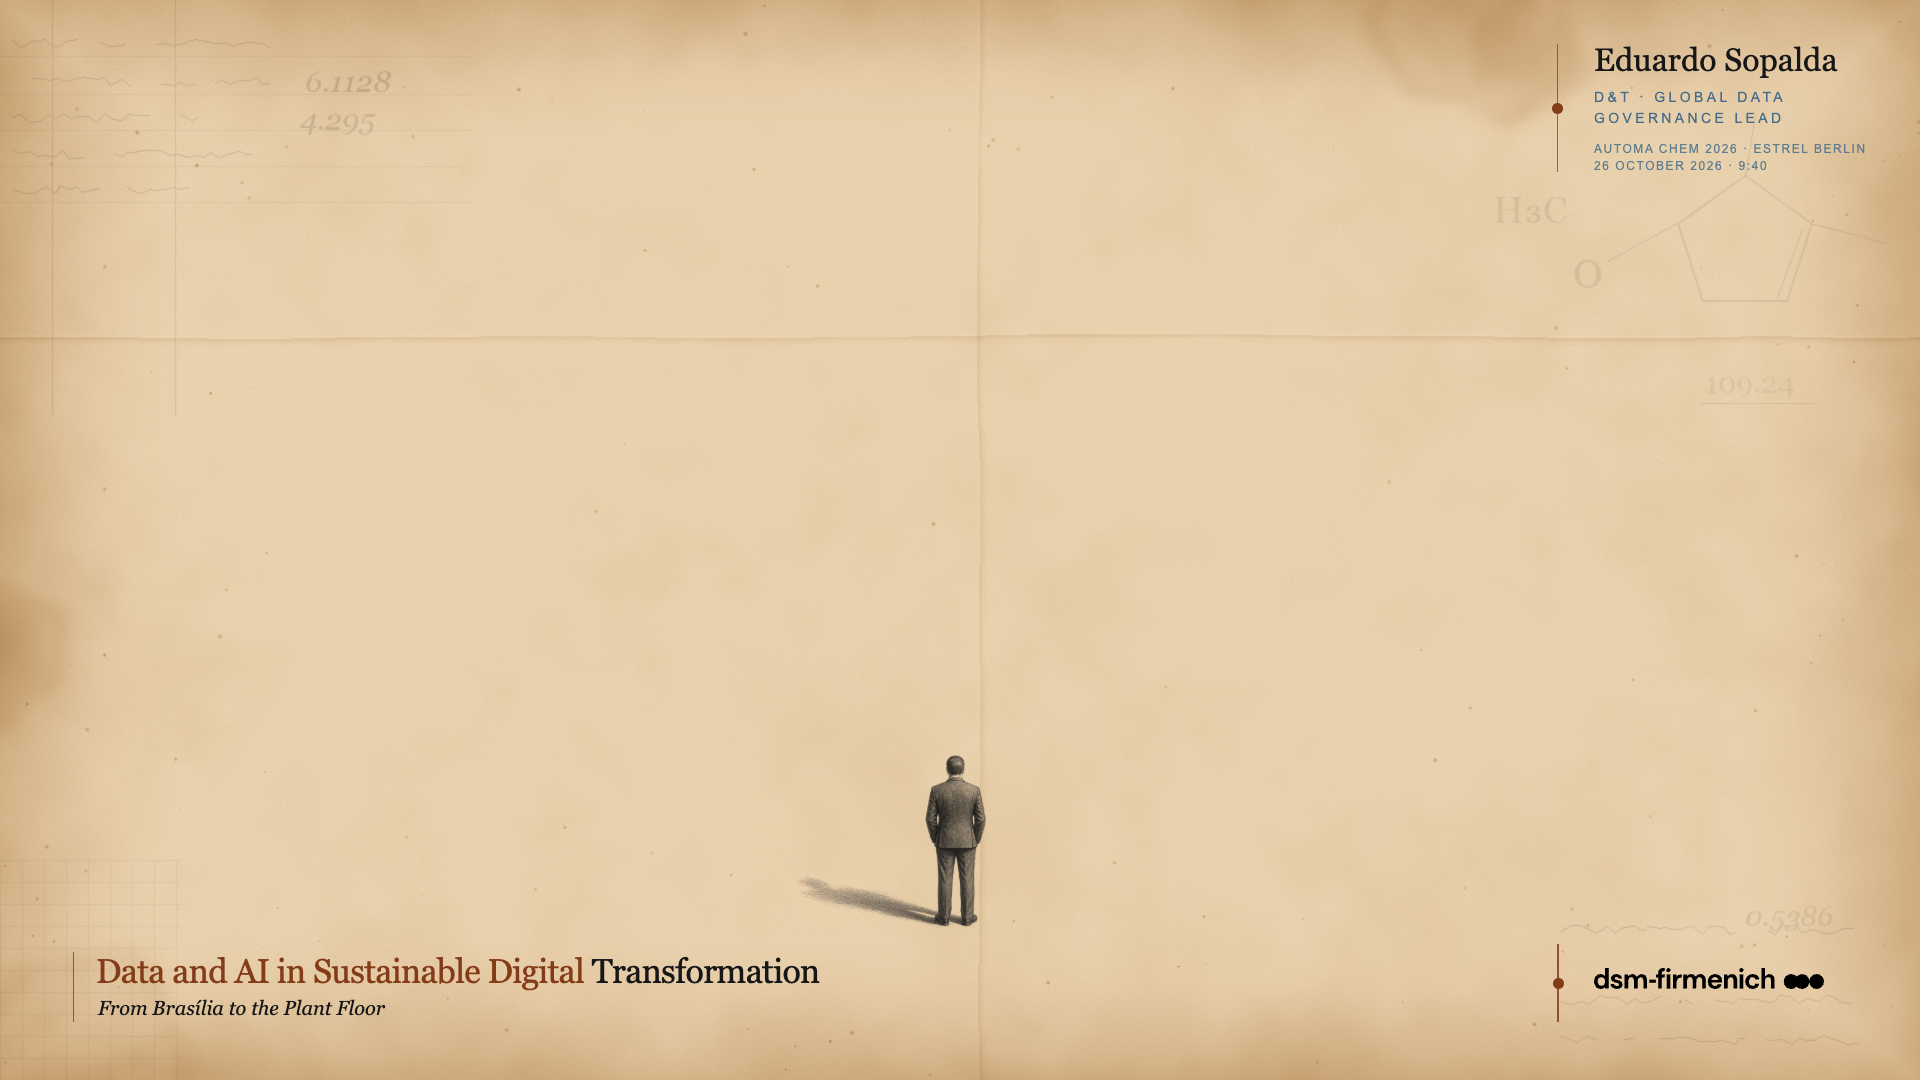
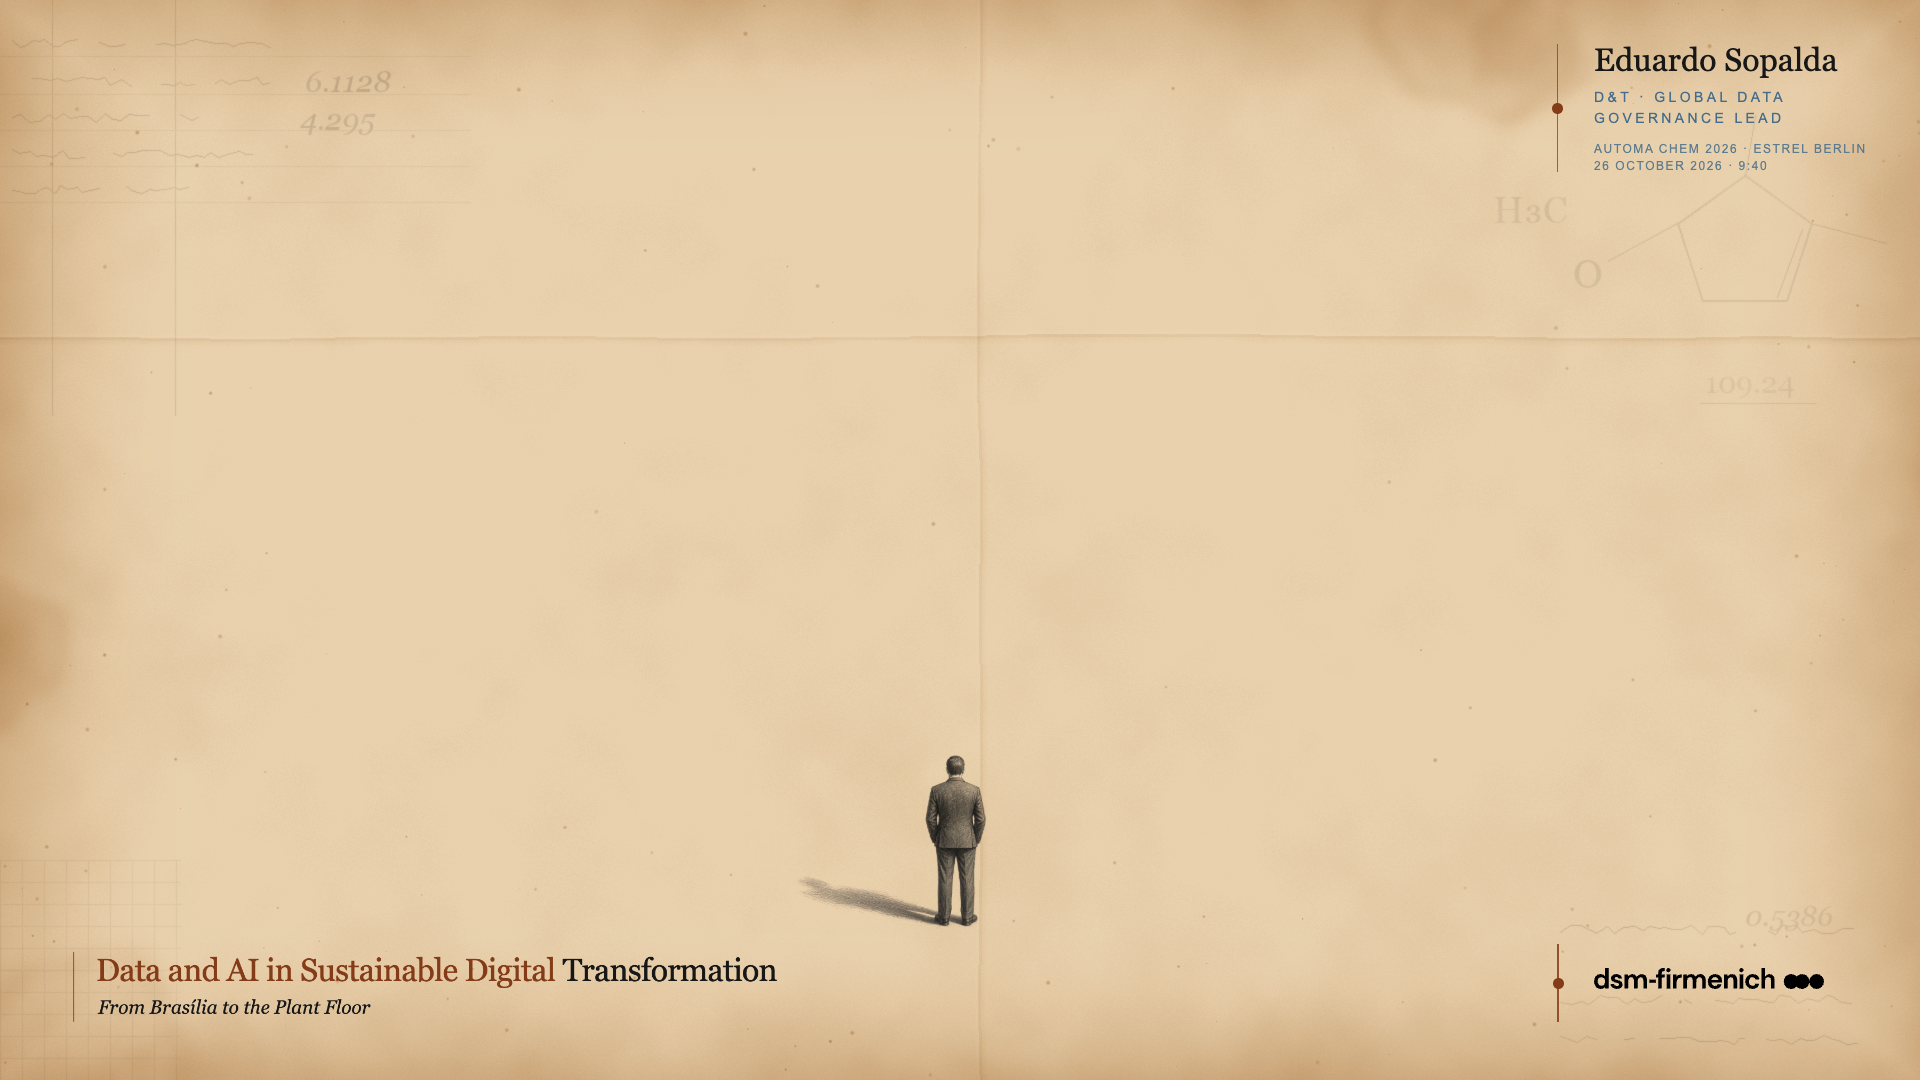
Act 0: the tagline fades first, then the title shrinks and sinks to its place
PEOPLE | PLANET | PROGRESS starts centred on the man and fades out (0.2 to 1.2 s) before anything moves.
From 1.4 s the title (one line and its subtitle, one group) shrinks (1.6 s) and sinks down the left margin
(3.2 s) together; the shrink finishes first, so it passes the man at final size, 18 px clear of his shadow.
Same shape at start and rest: laid out once at 60 px and only transformed (GSAP tweens transform directly;
the shrink eases by ratio), so letters never change shape and seeking, jumping to the end and R render
identically. Start 60 px (ends x 1373, clear of the name block); rest 32 px, top at y 952 below the datum.
make_base_frame.mjs now checks the datum at rest and the path against the man at 60 fps.

Changed region(s): [[0.0625, 0.8861, 0.4375, 0.9472]]

diff --git a/opening/index.html b/opening/index.html
@@ -8,8 +8,10 @@
   Act 0. Edu's title slide, set on a fixed 1920 by 1080 stage so it scales to any screen.
   The man is the measure of the drawing: no title type ever sits above the foot datum (y 936, his soles at 928 + 8).
   Layout (Edu, 30 Sep): title bottom left, name top right with the role under it, dsm-firmenich bottom right.
-  Nothing travels: every piece of type is already in its final place. On the click (Space, Right arrow, Page Down,
-  Enter) opening.mp4 starts under the man and PEOPLE | PLANET | PROGRESS fades out; opacity only, no moving letters.
+  On the click (Space, Right arrow, Page Down, Enter) opening.mp4 starts under the man; PEOPLE | PLANET | PROGRESS,
+  centred on him, fades out first; then the title (one line and its subtitle, one group) shrinks and sinks down the
+  left margin to its place. The group is laid out once at its starting size and only transformed, so its letters never
+  change shape; the shrink finishes before it reaches the man's height, so it never crosses him.
   Runs offline: open this file with a double click. R resets. F is fullscreen.
 -->
 <script src="gsap.min.js"></script>
@@ -54,10 +56,12 @@
   .t{position:absolute;display:block;white-space:nowrap}
   .rust{color:var(--rust)} .dark{color:var(--ink)}
 
-  /* Title, bottom left, entirely below the foot datum (y 936) */
-  .rule-left{position:absolute;left:73px;top:952px;height:70px;border-left:1px solid rgba(132,59,24,.78)}
-  .title{left:96px;top:954px;font:34px/1 Georgia,"Times New Roman",serif;letter-spacing:-.02em}
-  .d-sub{left:98px;top:998px;font:italic 20px/1 Georgia,"Times New Roman",serif;color:var(--ink)}
+  /* Title: one group, bottom left at rest (entirely below the foot datum, y 936). It is laid out at its starting
+     size (x 1.875) and scaled down to rest, so every frame is a downscale of the same sharp raster. */
+  .tgroup{position:absolute;left:96px;top:954px;transform-origin:0 0;will-change:transform}
+  .tgroup .rule-left{position:absolute;left:-43px;top:-4px;height:131px;border-left:2px solid rgba(132,59,24,.78)}
+  .title{left:0;top:0;font:60px/1 Georgia,"Times New Roman",serif;letter-spacing:-.02em}
+  .d-sub{left:4px;top:82px;font:italic 35.6px/1 Georgia,"Times New Roman",serif;color:var(--ink)}
 
   /* Name top right, role and occasion under it */
   .rule-right{position:absolute;left:1557px;top:44px;height:128px;border-left:1px solid rgba(132,59,24,.75)}
@@ -73,8 +77,8 @@
   .rule-right::after,.rule-logo::after{content:"";position:absolute;left:-6px;top:50%;width:11px;height:11px;margin-top:-5px;border-radius:50%;background:var(--rust)}
   .rule-logo{position:absolute;left:1557px;top:944px;height:78px;border-left:2px solid rgba(132,59,24,.85)}
 
-  /* The brand line: under the man before the click, then it fades out */
-  .people{left:1188px;top:962px;transform:translateX(-50%);color:var(--rust);font:700 20px Arial,Helvetica,sans-serif;letter-spacing:.30em}
+  /* The brand line: centred on the man before the click; it fades out before the title moves */
+  .people{left:905px;top:958px;transform:translateX(-50%);color:var(--rust);font:700 24.5px Arial,Helvetica,sans-serif;letter-spacing:.30em}
 </style>
 </head>
 <body>
@@ -93,9 +97,11 @@
   <img class="man" id="man" src="man.png" alt="">
 
   <div class="type" id="type">
-    <div class="rule-left"></div>
-    <span class="t title"><span class="rust">Data and AI in Sustainable Digital</span> <span class="dark">Transformation</span></span>
-    <span class="t d-sub">From Brasília to the Plant Floor</span>
+    <div class="tgroup" id="tgroup">
+      <div class="rule-left"></div>
+      <span class="t title"><span class="rust">Data and AI in Sustainable Digital</span> <span class="dark">Transformation</span></span>
+      <span class="t d-sub">From Brasília to the Plant Floor</span>
+    </div>
 
     <div class="rule-right"></div>
     <span class="t name">Eduardo Sopalda</span>
@@ -112,7 +118,7 @@
 </div>
 
 <script>
-  const stage = document.getElementById("stage"), people = document.getElementById("people");
+  const stage = document.getElementById("stage"), people = document.getElementById("people"), tgroup = document.getElementById("tgroup");
   const film = document.getElementById("film"), paper = document.getElementById("paper"), man = document.getElementById("man");
 
   const fit = () => {
@@ -122,8 +128,15 @@
   addEventListener("resize", fit); fit();
 
 
-  // The click: the film starts under the man, the paper gives way to it, and the brand line fades out.
-  // One timeline, opacity only: no type moves, so nothing can wobble. Reduced motion: the brand line goes at once.
+  // The title's move, solved so it never crosses the man (tools: path checked frame by frame against his box):
+  // the brand line fades out first (0.2 to 1.2 s); then, from 1.4 s, the title shrinks (1.6 s) and sinks (3.2 s) together;
+  // the shrink finishes first, so it is already at its final size when it passes the man's height, 19 px left of his shadow.
+  // Scale is interpolated by ratio (log), so the shrink reads even. One ease, power3.inOut: no bounce, no overshoot.
+  const S0 = 60 / 32, DY = 160 - 954;                         // start: one line at the title-slide height; rest: y 954
+  const p3 = gsap.parseEase("power3.inOut");
+  const evenShrink = (p) => (Math.pow(S0, -p3(p)) - 1) / (1 / S0 - 1);   // power3.inOut applied to log(scale)
+  const titleStart = () => gsap.set(tgroup, { transformOrigin: "0 0", y: DY, scale: 1, force3D: true });
+  titleStart();
   let started = false, tl = null;
   function begin() {
     if (started) return;
@@ -135,7 +148,10 @@
       .to(film, { opacity: 1, duration: 0.01 }, 0)
       .to(paper, { opacity: 0, duration: 1.2, ease: "sine.inOut" }, 0.1)
       .to(man, { opacity: 0, duration: 0.6, ease: "sine.inOut" }, 0.7)   // the film's own man takes over, same place
-      .to(people, { opacity: 0, duration: calm ? 0 : 1.2, ease: "sine.inOut" }, calm ? 0 : 0.5);
+      .to(people, { opacity: 0, duration: 1.0, ease: "sine.inOut" }, 0.2)
+      .to(tgroup, { scale: 1 / S0, duration: 1.6, ease: evenShrink }, 1.4)
+      .to(tgroup, { y: 0, duration: 3.2, ease: "power3.inOut" }, 1.4);
+    if (calm) tl.progress(1);
     window.__anims = [tl];
   }
   // Second click: the next clip. Its first frame is the opening film's last frame, so it only starts from there.
@@ -167,6 +183,7 @@
     (window.__anims2 || []).forEach((a) => a.kill());
     gsap.set([film, film2], { opacity: 0 });
     gsap.set([paper, man, people], { opacity: 1 });
+    titleStart();
   }
   addEventListener("keydown", (e) => {
     if ([" ", "ArrowRight", "PageDown", "Enter"].includes(e.key)) { e.preventDefault(); if (!e.repeat) (started ? next() : begin()); }
